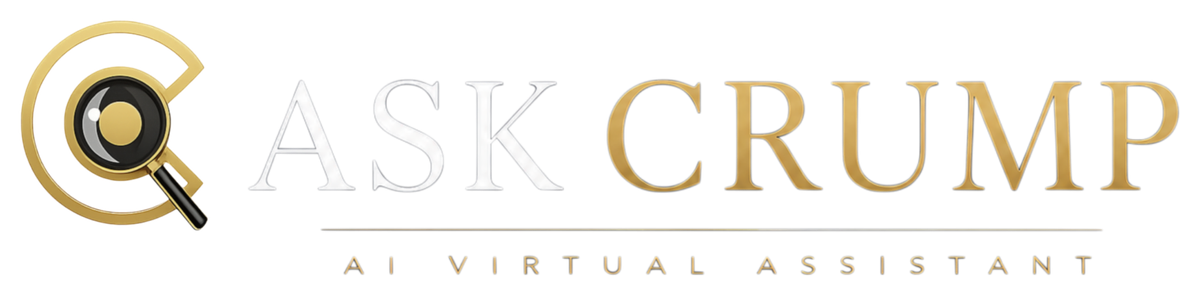
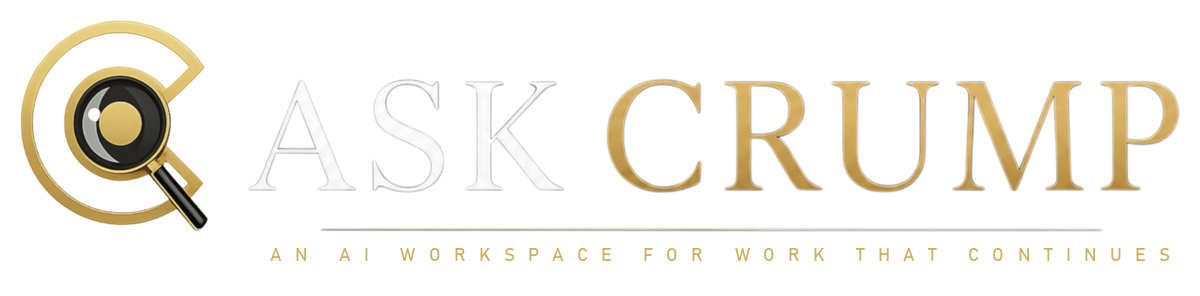
Stabilize header branding on refresh

Changed region(s): [[0.6167, 0.8209, 0.9867, 0.9426], [0.2158, 0.8209, 0.5858, 0.9426]]

diff --git a/public/crump-v1-body.js b/public/crump-v1-body.js
@@ -13,21 +13,40 @@
   const $$ = (selector, root = document) => [...root.querySelectorAll(selector)];
   const byId = id => document.getElementById(id);
 
-  function makeImage(src, className, alt = 'Ask Crump') {
+  function makeImage(src, className, alt = 'Ask Crump', critical = false) {
     const img = document.createElement('img');
     img.src = src;
     img.alt = alt;
     img.className = className;
-    img.decoding = 'async';
+    img.width = 1200;
+    img.height = 296;
+    img.loading = critical ? 'eager' : 'lazy';
+    img.decoding = critical ? 'sync' : 'async';
+    if (critical) img.fetchPriority = 'high';
     return img;
   }
 
   function restoreHeaderBrand() {
     const host = $('.header-branding');
     if (!host) return;
-    const existing = host.querySelector(':scope > .v1-body-header-logo');
-    if (existing && host.children.length === 1) return;
-    host.replaceChildren(makeImage(BRAND.horizontalLight, 'v1-body-header-logo'));
+    const existing = host.querySelector(':scope > img');
+    if (existing) {
+      if (existing.getAttribute('src') !== BRAND.horizontalLight) existing.src = BRAND.horizontalLight;
+      existing.alt = 'Ask Crump — An AI workspace for work that continues';
+      existing.classList.add('v1-header-logo', 'v1-body-header-logo');
+      existing.width = 1200;
+      existing.height = 296;
+      existing.loading = 'eager';
+      existing.decoding = 'sync';
+      existing.fetchPriority = 'high';
+      return;
+    }
+    host.replaceChildren(makeImage(
+      BRAND.horizontalLight,
+      'v1-header-logo v1-body-header-logo',
+      'Ask Crump — An AI workspace for work that continues',
+      true,
+    ));
   }
 
   function restoreLibraryBrand() {

diff --git a/public/app.html b/public/app.html
@@ -14,6 +14,7 @@
   <link rel="apple-touch-icon" sizes="180x180" href="/assets/ask-crump-app-icon-v2-180.png">
   <link rel="apple-touch-icon-precomposed" sizes="180x180" href="/assets/ask-crump-app-icon-v2-180.png">
   <link rel="preload" as="image" href="/assets/brand/crump-mark.png" fetchpriority="high">
+  <link rel="preload" as="image" href="/assets/brand/crump-horizontal-light.png" fetchpriority="high">
   <link rel="stylesheet" href="/styles.css">
   <link rel="stylesheet" href="/install-prompt.css?v=5.9.75">
   <link rel="stylesheet" href="/auth-styles.css">
@@ -320,7 +321,7 @@
         </button>
 
         <div class="header-branding v1-header-branding">
-          <img src="/assets/brand/crump-horizontal-light.png" width="1200" height="296" loading="lazy" decoding="async" alt="Ask Crump" class="v1-header-logo">
+          <img src="/assets/brand/crump-horizontal-light.png" width="1200" height="296" loading="eager" decoding="sync" fetchpriority="high" alt="Ask Crump — An AI workspace for work that continues" class="v1-header-logo v1-body-header-logo">
         </div>
 
         <div class="v1-workspace-context">

diff --git a/public/clever-crump.html b/public/clever-crump.html
@@ -108,7 +108,7 @@
       <article class="product-card">
         <div class="product-copy">
           <div class="product-status"><span></span> Available now</div>
-          <img class="product-wordmark" src="/assets/brand/crump-horizontal-light.png" alt="Ask Crump — AI Virtual Assistant">
+          <img class="product-wordmark" src="/assets/brand/crump-horizontal-light.png" alt="Ask Crump — An AI workspace for work that continues">
           <h2 id="product-title">An AI workspace for<br>work that continues.</h2>
           <p>Conversations, current research, Projects, files, documents, presentations, manuscripts, images, and video—organized around the work you want to keep.</p>
           <div class="product-actions">

diff --git a/public/crump-5.0.js b/public/crump-5.0.js
@@ -911,7 +911,7 @@
   function premiumShell() {
     document.body.classList.add('crump-50');
     const branding = $('.header-branding');
-    if (branding && !$('#crump50Brand')) {
+    if (branding && !document.body.classList.contains('crump-v1-body') && !$('#crump50Brand')) {
       branding.replaceChildren();
       const brand = document.createElement('div'); brand.id='crump50Brand'; brand.className='crump50-brand';
       brand.innerHTML='<span class="crump50-mark">C</span><span><strong>Ask Crump</strong><small>AI assistant</small></span>';

diff --git a/public/crump-4.3.js b/public/crump-4.3.js
@@ -26,6 +26,7 @@
     const branding = $('.header-branding');
     if (!branding || branding.dataset.crump43 === 'true') return;
     branding.dataset.crump43 = 'true';
+    if (document.body.classList.contains('crump-v1-body')) return;
     branding.replaceChildren();
 
     const icon = document.createElement('img');

diff --git a/public/sw.js b/public/sw.js
@@ -1,4 +1,4 @@
-const CACHE_NAME = 'ask-crump-new-body-v1-r116';
+const CACHE_NAME = 'ask-crump-new-body-v1-r117';
 
 const CORE = [
   '/app',

diff --git a/scripts/generate_workspace_brand_asset.py b/scripts/generate_workspace_brand_asset.py
@@ -1,0 +1,71 @@
+from __future__ import annotations
+
+from pathlib import Path
+
+from PIL import Image, ImageDraw, ImageFont
+
+
+ROOT = Path(__file__).resolve().parents[1]
+WORDMARK = ROOT / "public" / "assets" / "brand" / "crump-horizontal-light.png"
+TAGLINE = "AN AI WORKSPACE FOR WORK THAT CONTINUES"
+TAGLINE_TOP = 238
+TAGLINE_X = 270
+TAGLINE_WIDTH = 900
+TAGLINE_Y = 246
+TAGLINE_COLOR = (205, 175, 98, 255)
+
+
+def load_font(size: int) -> ImageFont.FreeTypeFont:
+    candidates = (
+        Path("C:/Windows/Fonts/bahnschrift.ttf"),
+        Path("C:/Windows/Fonts/arial.ttf"),
+        Path("/usr/share/fonts/truetype/dejavu/DejaVuSans.ttf"),
+    )
+    for candidate in candidates:
+        if candidate.exists():
+            return ImageFont.truetype(str(candidate), size=size)
+    return ImageFont.load_default(size=size)
+
+
+def draw_tracked_text(
+    draw: ImageDraw.ImageDraw,
+    position: tuple[int, int],
+    text: str,
+    font: ImageFont.FreeTypeFont,
+    target_width: int,
+    fill: tuple[int, int, int, int],
+) -> None:
+    glyph_widths = [draw.textlength(character, font=font) for character in text]
+    base_width = sum(glyph_widths)
+    tracking = max(0.0, (target_width - base_width) / max(1, len(text) - 1))
+    x, y = position
+    for character, glyph_width in zip(text, glyph_widths):
+        draw.text((x, y), character, font=font, fill=fill)
+        x += glyph_width + tracking
+
+
+def main() -> None:
+    image = Image.open(WORDMARK).convert("RGBA")
+    if image.size != (1200, 296):
+        raise ValueError(f"Expected a 1200x296 wordmark, got {image.size!r}")
+
+    # Preserve the approved mark, ASK CRUMP lettering, and rule exactly. Only the
+    # legacy descriptor beneath the rule is replaced with the current positioning.
+    image.paste((0, 0, 0, 0), (0, TAGLINE_TOP, image.width, image.height))
+    draw = ImageDraw.Draw(image)
+    draw_tracked_text(
+        draw,
+        (TAGLINE_X, TAGLINE_Y),
+        TAGLINE,
+        load_font(18),
+        TAGLINE_WIDTH,
+        TAGLINE_COLOR,
+    )
+
+    temporary = WORDMARK.with_suffix(".tmp.png")
+    image.save(temporary, format="PNG", optimize=True)
+    temporary.replace(WORDMARK)
+
+
+if __name__ == "__main__":
+    main()

diff --git a/tests/test_static_assets.py b/tests/test_static_assets.py
@@ -109,13 +109,19 @@ def test_signed_out_entry_eagerly_loads_only_visible_brand_images():
     eager_images = [image for image in brand_images if image.get('loading') != 'lazy']
     deferred_images = [image for image in brand_images if image.get('loading') == 'lazy']
 
-    assert len(eager_images) == 3
-    assert sum(image['src'] == '/assets/brand/crump-horizontal-light.png' for image in eager_images) == 2
+    assert len(eager_images) == 4
+    assert sum(image['src'] == '/assets/brand/crump-horizontal-light.png' for image in eager_images) == 3
     startup_mark = next(image for image in eager_images if image['src'] == '/assets/brand/crump-mark.png')
     assert startup_mark.get('loading') == 'eager'
     assert startup_mark.get('decoding') == 'sync'
     assert startup_mark.get('fetchpriority') == 'high'
-    assert len(deferred_images) == len(brand_images) - 3
+    header_logo = next(image for image in eager_images if 'v1-header-logo' in image.get('class', '').split())
+    assert header_logo.get('decoding') == 'sync'
+    assert header_logo.get('fetchpriority') == 'high'
+    assert header_logo.get('width') == '1200'
+    assert header_logo.get('height') == '296'
+    assert 'An AI workspace for work that continues' in header_logo.get('alt', '')
+    assert len(deferred_images) == len(brand_images) - 4
     assert all(image.get('decoding') == 'async' for image in deferred_images)
     assert all(image.get('width') and image.get('height') for image in brand_images)
 

diff --git a/tests/test_header_brand_stability.py b/tests/test_header_brand_stability.py
@@ -1,0 +1,33 @@
+from pathlib import Path
+
+
+ROOT = Path(__file__).resolve().parents[1]
+
+
+def read(path: str) -> str:
+    return (ROOT / path).read_text(encoding="utf-8")
+
+
+def test_v1_header_brand_is_not_replaced_by_legacy_shells():
+    legacy_43 = read("public/crump-4.3.js")
+    legacy_50 = read("public/crump-5.0.js")
+
+    assert "if (document.body.classList.contains('crump-v1-body')) return;" in legacy_43
+    assert "!document.body.classList.contains('crump-v1-body')" in legacy_50
+
+
+def test_v1_brand_guard_reuses_the_initial_header_image():
+    body = read("public/crump-v1-body.js")
+
+    assert "const existing = host.querySelector(':scope > img');" in body
+    assert "existing.classList.add('v1-header-logo', 'v1-body-header-logo');" in body
+    assert "existing.loading = 'eager';" in body
+    assert "existing.decoding = 'sync';" in body
+    assert "existing.fetchPriority = 'high';" in body
+
+
+def test_workspace_positioning_is_part_of_the_canonical_brand_asset():
+    generator = read("scripts/generate_workspace_brand_asset.py")
+
+    assert 'TAGLINE = "AN AI WORKSPACE FOR WORK THAT CONTINUES"' in generator
+    assert 'WORDMARK = ROOT / "public" / "assets" / "brand" / "crump-horizontal-light.png"' in generator

diff --git a/tests/test_product531_contract.py b/tests/test_product531_contract.py
@@ -39,7 +39,7 @@ def test_project_reference_ui_and_chat_rename_are_final_runtime_layers():
     assert "/crump-product-5.3.1.css" in runtime
     assert "/crump-product-5.3.1.js" in runtime
     assert runtime.index("/crump-product-5.3.js") < runtime.index("/crump-product-5.3.1.js")
-    assert "ask-crump-new-body-v1-r116" in worker
+    assert "ask-crump-new-body-v1-r117" in worker
     assert "Reference files" in js
     assert "Project files" in js
     assert "Rename chat" in js
@@ -76,3 +76,10 @@ def test_clever_crump_page_uses_plain_language_positioning():
     assert "Saved Library" not in page
     assert "transformative intelligence ecosystem" not in page.lower()
     assert "chatgpt" not in page.lower()
+
+
+def test_parent_company_uses_the_current_ask_crump_positioning():
+    page = read("public/clever-crump.html")
+
+    assert 'alt="Ask Crump — An AI workspace for work that continues"' in page
+    assert 'alt="Ask Crump — AI Virtual Assistant"' not in page

diff --git a/tests/test_conversation_creation_intelligence.py b/tests/test_conversation_creation_intelligence.py
@@ -104,9 +104,9 @@ def test_crump_voice_avoids_generic_assistant_form_language():
 def test_conversation_intelligence_advances_shell_cache():
     sw = read("public/sw.js")
     checker = read("scripts/check-javascript.mjs")
-    assert "ask-crump-new-body-v1-r116" in sw
+    assert "ask-crump-new-body-v1-r117" in sw
     assert "ask-crump-new-body-v1-r23" not in sw
-    assert "ask-crump-new-body-v1-r116" in checker
+    assert "ask-crump-new-body-v1-r117" in checker
 
 
 def test_reload_opens_a_clean_conversation_without_discarding_history():

diff --git a/tests/test_product56_polish.py b/tests/test_product56_polish.py
@@ -17,7 +17,7 @@ def test_56_polish_layer_is_last_on_web_and_native():
         assert source.index("/crump-4.3.js") < source.index("/crump-4.4.js")
         assert source.index("/crump-product-5.3.1.js") < source.index("/crump-polish-5.6.js")
         assert "/crump-polish-5.6.css" in source
-    assert "ask-crump-new-body-v1-r116" in worker
+    assert "ask-crump-new-body-v1-r117" in worker
     assert "/crump-polish-5.6.css" in worker and "/crump-polish-5.6.js" in worker
     assert "crump-polish-5.6.js" in checker
 
